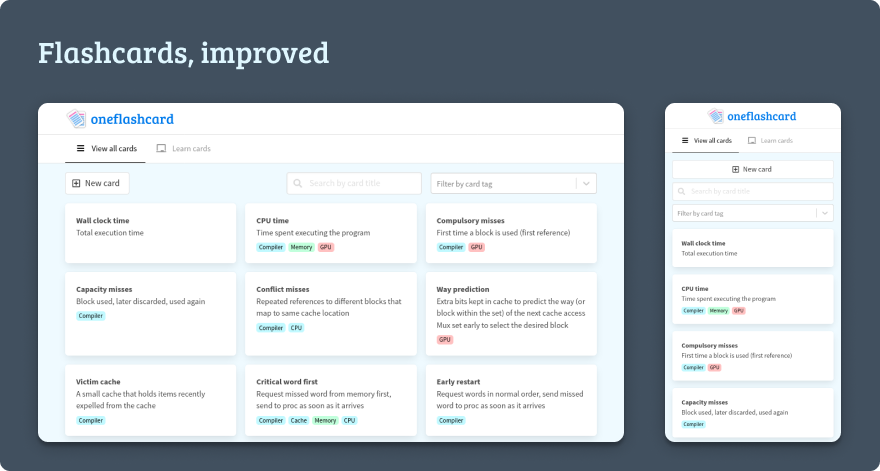
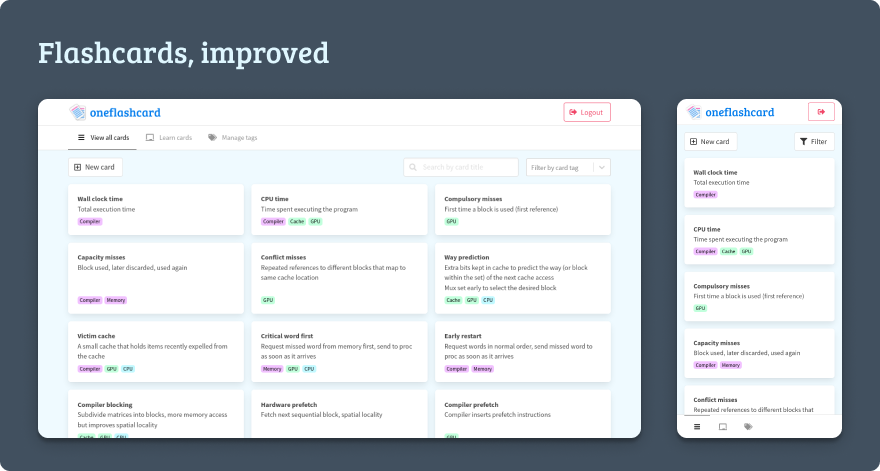
Improve reponsive design

Changed region(s): [[0.0307, 0.2081, 0.9511, 0.9512], [0.6136, 0.327, 0.675, 0.3864], [0.9205, 0.2972, 0.9511, 0.327]]

diff --git a/webclient/src/pages/viewcards/components/Optionbar.tsx b/webclient/src/pages/viewcards/components/Optionbar.tsx
@@ -28,37 +28,44 @@ export default observer((props: Props) => {
 
   return (
     <SContainer>
-      <SButtonContainer>
-        <button className="button" onClick={props.addCard}>
-          <span className="icon is-left">
-            <i className="far fa-plus-square" />
-          </span>
-          <span>New card</span>
-        </button>
-      </SButtonContainer>
-
-      <div className="control has-icons-left">
-        <input
-          className="input"
-          placeholder="Search by card title"
-          value={props.filterString}
-          onChange={e => props.setFilterString(e.target.value)}
-        ></input>
+      <button className="button" onClick={props.addCard}>
         <span className="icon is-left">
-          <i className="fas fa-search" />
+          <i className="far fa-plus-square" />
         </span>
-      </div>
+        <span>New card</span>
+      </button>
 
-      <SFilterContainer>
-        <Select
-          isMulti
-          closeMenuOnSelect={false}
-          placeholder="Filter by card tag"
-          options={allTags}
-          value={selectedTags}
-          onChange={setFilter as any}
-        />
-      </SFilterContainer>
+      <SFilterButton className="button">
+        <span className="icon is-left">
+          <i className="fas fa-filter" />
+        </span>
+        <span>Filter</span>
+      </SFilterButton>
+
+      <SFilterOptions>
+        <div className="control has-icons-left">
+          <input
+            className="input"
+            placeholder="Search by card title"
+            value={props.filterString}
+            onChange={e => props.setFilterString(e.target.value)}
+          ></input>
+          <span className="icon is-left">
+            <i className="fas fa-search" />
+          </span>
+        </div>
+
+        <SFilterContainer>
+          <Select
+            isMulti
+            closeMenuOnSelect={false}
+            placeholder="Filter by card tag"
+            options={allTags}
+            value={selectedTags}
+            onChange={setFilter as any}
+          />
+        </SFilterContainer>
+      </SFilterOptions>
     </SContainer>
   );
 });
@@ -68,31 +75,43 @@ const SContainer = styled.div`
   align-items: center;
   flex-direction: row;
   justify-content: space-between;
-  flex-wrap: wrap;
-
-  @media only screen and (min-width: 731px) {
-    & > *:last-child {
-      margin-left: 1rem;
-    }
-  }
-
-  @media only screen and (max-width: 730px) {
-    flex-direction: column;
-    align-items: stretch;
-    & > *:not(:first-child) {
-      margin-top: 0.5rem;
-    }
-
-    button {
-      width: 100%;
-    }
-  }
 `;
 
-const SButtonContainer = styled.div`
-  flex-grow: 1;
+const SFilterButton = styled.div`
+  @media only screen and (min-width: 751px) {
+    display: none;
+  }
+
+  &:hover + * {
+    display: grid;
+  }
 `;
 
 const SFilterContainer = styled.div`
-  min-width: 300px;
+  min-width: 180px;
+`;
+
+const SFilterOptions = styled.div`
+  display: grid;
+  grid-gap: 1rem;
+  grid-auto-flow: column;
+  align-items: center;
+
+  @media only screen and (max-width: 750px) {
+    display: none;
+    position: absolute;
+    left: 0;
+    right: 0;
+    top: 0;
+    background: white;
+    grid-auto-flow: row;
+    padding: 1rem;
+    box-shadow: 0 0.5em 1em -0.125em rgba(10, 10, 10, 0.1),
+      0 0px 0 1px rgba(10, 10, 10, 0.02);
+    border-radius: 6px;
+
+    &:hover {
+      display: grid;
+    }
+  }
 `;

diff --git a/webclient/src/pages/app/App.tsx b/webclient/src/pages/app/App.tsx
@@ -4,14 +4,17 @@ import { Redirect, Route, Switch, useLocation } from "react-router";
 import Topbar from "../../shared/components/Topbar";
 import userStore from "../../stores/userStore";
 import Viewcards from "../viewcards/Viewcards";
+import LogoutButton from "./components/LogoutButton";
 import Navbar from "./components/Navbar";
+import SPageGrid from "./components/SPageGrid";
 
 export default observer(() => {
   const loc = useLocation();
 
   const routes: { text: string; icon: string; route: string }[] = [
     { text: "View all cards", icon: "fas fa-bars", route: "/app" },
-    { text: "Learn cards", icon: "fas fa-chalkboard", route: "/app/learn" }
+    { text: "Learn cards", icon: "fas fa-chalkboard", route: "/app/learn" },
+    { text: "Manage tags", icon: "fas fa-tags", route: "" }
   ];
 
   const logout = () => userStore.reset();
@@ -21,29 +24,26 @@ export default observer(() => {
   return (
     <div>
       <Topbar>
-        <button
-          className={`button is-danger is-outlined ${loadingClass}`}
-          onClick={logout}
-        >
-          Logout
-        </button>
+        <LogoutButton isLoading={userStore.fetchingUser} logout={logout} />
       </Topbar>
 
-      <Navbar routes={routes} currRoute={loc.pathname} />
+      <SPageGrid>
+        <Navbar routes={routes} currRoute={loc.pathname} />
 
-      <Switch>
-        <Route exact path="/app">
-          <Viewcards />
-        </Route>
+        <Switch>
+          <Route exact path="/app">
+            <Viewcards />
+          </Route>
 
-        <Route exact path="/app/learn">
-          <div>Learn cards</div>
-        </Route>
+          <Route exact path="/app/learn">
+            <div>Learn cards</div>
+          </Route>
 
-        <Route path="*">
-          <Redirect to="/app" />
-        </Route>
-      </Switch>
+          <Route path="*">
+            <Redirect to="/app" />
+          </Route>
+        </Switch>
+      </SPageGrid>
     </div>
   );
 });

diff --git a/webclient/src/pages/app/components/Navbar.tsx b/webclient/src/pages/app/components/Navbar.tsx
@@ -21,7 +21,7 @@ export default observer((props: Props) => {
             <span className="icon">
               <i className={route.icon} />
             </span>
-            {route.text}
+            <span className="text">{route.text}</span>
           </SLink>
         ))}
       </div>
@@ -33,6 +33,15 @@ const SBar = styled.div`
   background: white;
   padding: 0rem 1rem;
   border-bottom: 1px solid #e1e1e1;
+
+  @media only screen and (max-width: 400px) {
+    position: fixed;
+    bottom: 0;
+    width: 100%;
+    z-index: 100;
+    border-bottom: none;
+    border-top: 1px solid #e1e1e1;
+  }
 `;
 
 const SLink = styled(Link)`
@@ -40,23 +49,38 @@ const SLink = styled(Link)`
   padding: 0.8rem 1rem;
   color: #919191;
   border-bottom: 1px solid transparent;
-  transition: 0.1s color, 0.1s border-bottom-color;
+  transition: 0.1s color, 0.1s border-color;
 
-  span {
+  @media only screen and (max-width: 400px) {
+    border-bottom: none;
+    border-top: 1px solid transparent;
+  }
+
+  .icon {
     margin-right: 0.5rem;
   }
 
   &.selected {
     color: black;
-    border-bottom-color: black;
+    border-color: black;
   }
 
   :not(.selected):hover {
     color: #3769ff;
-    border-bottom-color: #3769ff;
+    border-color: #3769ff;
   }
 
   :focus {
     outline: none;
+  }
+
+  @media only screen and (max-width: 500px) {
+    .text {
+      display: none;
+    }
+
+    .icon {
+      margin-right: 0;
+    }
   }
 `;

diff --git a/webclient/src/pages/home/components/Topbar.tsx b/webclient/src/pages/home/components/Topbar.tsx
@@ -1,6 +1,5 @@
 import { observer } from "mobx-react";
 import React from "react";
-import styled from "styled-components";
 import Topbar from "../../../shared/components/Topbar";
 
 type Props = {
@@ -16,8 +15,12 @@ export default observer((props: Props) => {
     <Topbar>
       {props.loggedIn ? (
         <div className="buttons has-addons">
-          <SButton onClick={props.goToApp}>Go to app</SButton>
-          <SButton onClick={props.logout}>Logout</SButton>
+          <button className="button" onClick={props.goToApp}>
+            Go to app
+          </button>
+          <button className="button" onClick={props.logout}>
+            Logout
+          </button>
         </div>
       ) : !props.loading ? (
         <button className="button" onClick={props.toggleLogin}>
@@ -29,7 +32,3 @@ export default observer((props: Props) => {
     </Topbar>
   );
 });
-
-const SButton = styled.button.attrs({ className: "button" })`
-  flex-grow: 1;
-`;

diff --git a/webclient/src/pages/app/components/LogoutButton.tsx b/webclient/src/pages/app/components/LogoutButton.tsx
@@ -1,0 +1,32 @@
+import { observer } from "mobx-react";
+import React from "react";
+import styled from "styled-components";
+
+type Props = { isLoading: boolean; logout: () => void };
+
+export default observer((props: Props) => {
+  const loadingClass = props.isLoading ? "is-loading" : "";
+
+  return (
+    <SButton
+      className={`button is-danger is-outlined ${loadingClass}`}
+      onClick={props.logout}
+    >
+      <span className="icon is-left">
+        <i className="fas fa-sign-out-alt" />
+      </span>
+      <span className="text">Logout</span>
+    </SButton>
+  );
+});
+
+const SButton = styled.button`
+  @media only screen and (max-width: 500px) {
+    .text {
+      display: none;
+    }
+    .icon {
+      margin: 0 !important;
+    }
+  }
+`;

diff --git a/webclient/src/shared/components/Topbar.tsx b/webclient/src/shared/components/Topbar.tsx
@@ -11,7 +11,7 @@ export default observer((props: Props) => {
       <div className="container">
         <SContainer>
           <Logo height="40px" width={undefined} />
-          {props.children}
+          <div>{props.children}</div>
         </SContainer>
       </div>
     </SBar>
@@ -27,11 +27,4 @@ const SBar = styled.div`
 const SContainer = styled.div`
   display: flex;
   justify-content: space-between;
-
-  @media only screen and (max-width: 500px) {
-    flex-direction: column;
-    & > *:first-child {
-      margin-bottom: 1rem;
-    }
-  }
 `;

diff --git a/webclient/src/pages/app/components/SPageGrid.tsx b/webclient/src/pages/app/components/SPageGrid.tsx
@@ -1,0 +1,7 @@
+import styled from "styled-components";
+
+export default styled.div`
+  @media only screen and (max-width: 400px) {
+    padding-bottom: 50px;
+  }
+`;
